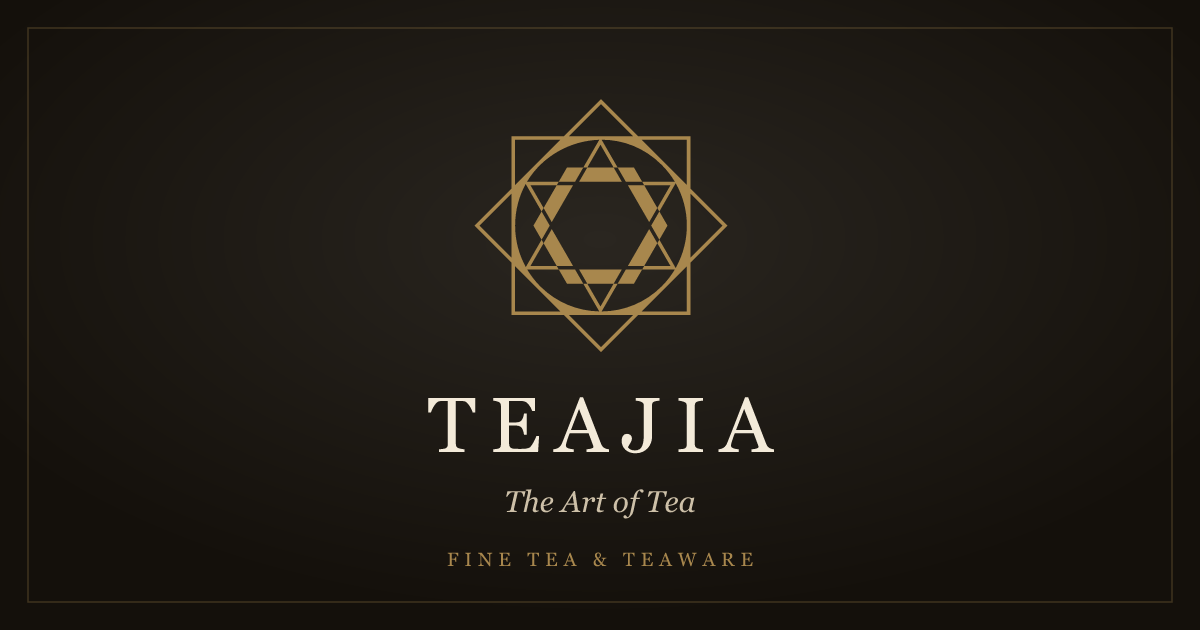
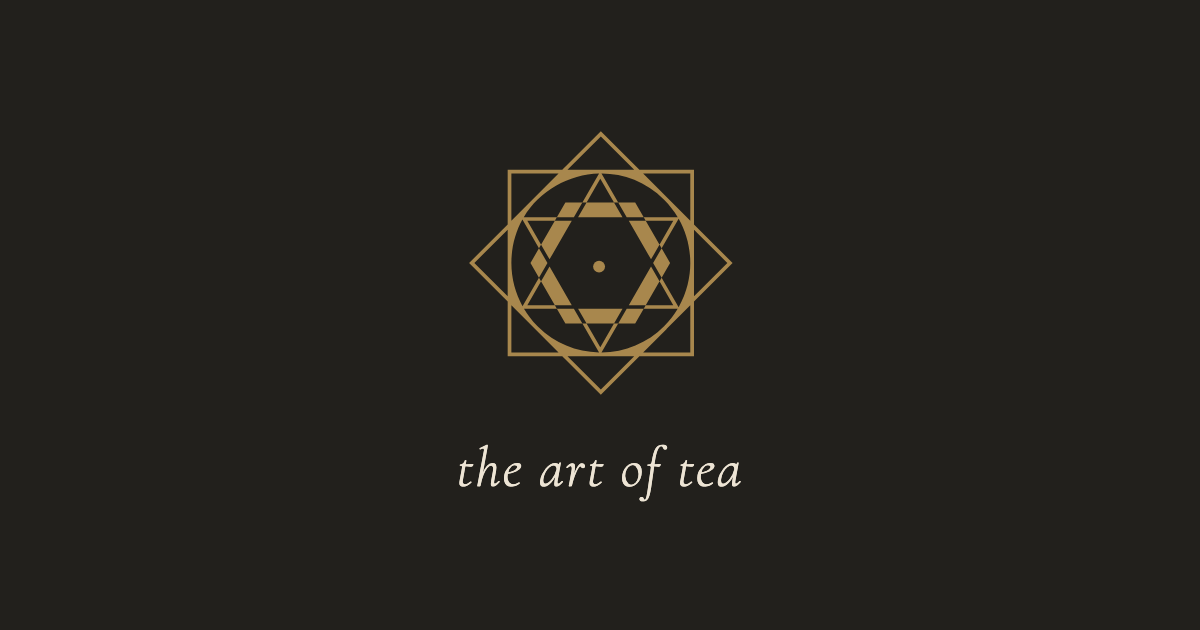
feat(share): share card is the emblem and the art of tea; default share text is the house line
The link preview Instagram and WhatsApp show for teajia.com carried the
wordmark, a tagline and a strapline, and called the site a tea journal.
The card is now the emblem in bronze on the site's ground with one line
beneath it, and the default title and description say what the site says
of itself on its own home page. Article pages keep their own text.

diff --git a/index.html b/index.html
@@ -3,23 +3,23 @@
   <head>
     <meta charset="UTF-8" />
     <meta name="viewport" content="width=device-width, initial-scale=1.0, viewport-fit=cover" />
-    <title>Teajia | Tea Journal</title>
+    <title>Teajia · The Art of Tea</title>
     <!-- Favicon -->
     <link rel="icon" type="image/svg+xml" href="/favicon.svg" />
     <link rel="icon" type="image/png" sizes="32x32" href="/favicon-32x32.png" />
     <link rel="apple-touch-icon" sizes="180x180" href="/apple-touch-icon.png" />
     <!-- SEO & Social -->
-    <meta name="description" content="Teajia is an editorial journal for the world of tea — articles, visual stories, a curated shop, courses, and space design services." />
+    <meta name="description" content="Teajia is a home for tea. A place to source, study, and share with those who gather around the leaf." />
     <link rel="canonical" href="https://teajia.com" />
     <meta property="og:type" content="website" />
     <meta property="og:site_name" content="Teajia" />
-    <meta property="og:title" content="Teajia | Tea Journal" />
-    <meta property="og:description" content="An editorial journal for the world of tea — articles, visual stories, a curated shop, courses, and space design services." />
+    <meta property="og:title" content="Teajia · The Art of Tea" />
+    <meta property="og:description" content="A home for tea. A place to source, study, and share with those who gather around the leaf." />
     <meta property="og:image" content="https://teajia.com/og-image.png" />
     <meta property="og:url" content="https://teajia.com" />
     <meta name="twitter:card" content="summary_large_image" />
-    <meta name="twitter:title" content="Teajia | Tea Journal" />
-    <meta name="twitter:description" content="An editorial journal for the world of tea — articles, visual stories, a curated shop, courses, and space design services." />
+    <meta name="twitter:title" content="Teajia · The Art of Tea" />
+    <meta name="twitter:description" content="A home for tea. A place to source, study, and share with those who gather around the leaf." />
     <meta name="twitter:image" content="https://teajia.com/og-image.png" />
     <!-- Structured data: Organization + WebSite (AI / search discoverability).
          Per-page Product and Article JSON-LD is injected at runtime by the
@@ -33,7 +33,7 @@
           "@id": "https://teajia.com/#org",
           "name": "Teajia",
           "url": "https://teajia.com",
-          "description": "Editorial tea journal and curated shop of sourced teas and teaware, with courses, tasting events, and space-design services.",
+          "description": "A home for tea. A place to source, study, and share with those who gather around the leaf.",
           "logo": "https://teajia.com/og-image.png"
         },
         {
@@ -41,7 +41,7 @@
           "@id": "https://teajia.com/#website",
           "url": "https://teajia.com",
           "name": "Teajia",
-          "description": "An editorial journal for the world of tea — articles, visual stories, a curated shop, courses, and space design services.",
+          "description": "A home for tea. A place to source, study, and share with those who gather around the leaf.",
           "publisher": { "@id": "https://teajia.com/#org" }
         }
       ]
